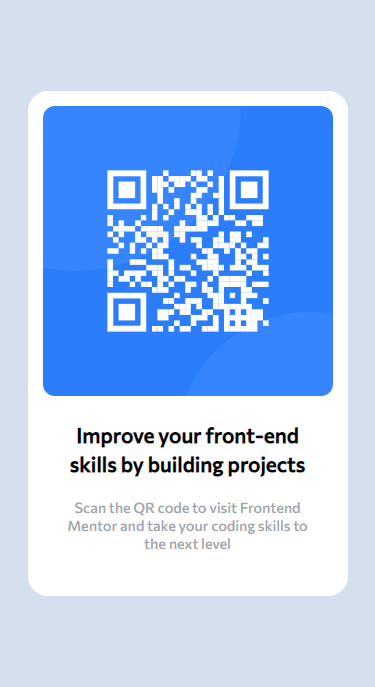
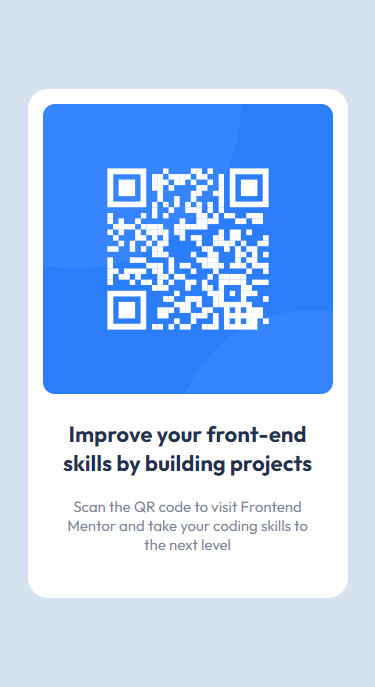
Fix typo and colors

diff --git a/index.html b/index.html
@@ -10,15 +10,21 @@
 
   <!-- Feel free to remove these styles or customise in your own stylesheet 👍 -->
   <style>
-    @import url('https://fonts.googleapis.com/css2?family=Commissioner:wght@200;300;500&display=swap');
+    @import url('https://fonts.googleapis.com/css2?family=Outfit:wght@400;700&display=swap');
+    :root {
+      --white-color: hsl(0, 0%, 100%);
+      --light-gray-color: hsl(212, 45%, 89%);
+      --grayish-blue-color: hsl(220, 15%, 55%);
+      --dark-blue: hsl(218, 44%, 22%);
+    }
     * {
       box-sizing: border-box;
       margin: 0;
       padding: 0;
-      font-family: 'Commissioner', sans-serif;
+      font-family: 'Outfit', sans-serif;
     }
     body {
-      background-color: #D4E0EE;
+      background-color: var(--light-gray-color);
     }
     main {
       height: 100vh;
@@ -28,7 +34,7 @@
       justify-content: center;
     }
     .main-container {
-      background-color: #FFFFFF;
+      background-color: var(--white-color);
       max-width: 320px;
       border-radius: 20px;
       padding: 15px;
@@ -45,17 +51,20 @@
       margin-bottom: 1.2rem;
     }
     h1 {
-      font-size: 1.3rem;
+      font-size: 22px;
       line-height: 1.8rem;
+      font-weight: 700;
       text-align: center;
+      color: var(--dark-blue);
     }
     .container-desc {
       margin-bottom: 1.8rem;
     }
     .container-desc p {
-      font-size: .9rem;
+      font-size: 15px;
+      font-weight: 400;
       text-align: center;
-      color: #A2A5AB;
+      color: var(--grayish-blue-color);
     }
   </style>
 </head>

diff --git a/README.md b/README.md
@@ -20,7 +20,7 @@ This is a solution to the [QR code component challenge on Frontend Mentor](https
 
 Desktop
 
-![](design/my-design.png)
+![](design/my-design-desktop.png)
 
 Mobile
 
@@ -35,6 +35,7 @@ Mobile
 
 ### Built with
 
+- CSS custom properties
 - Flexbox
 - Mobile-first workflow
 
